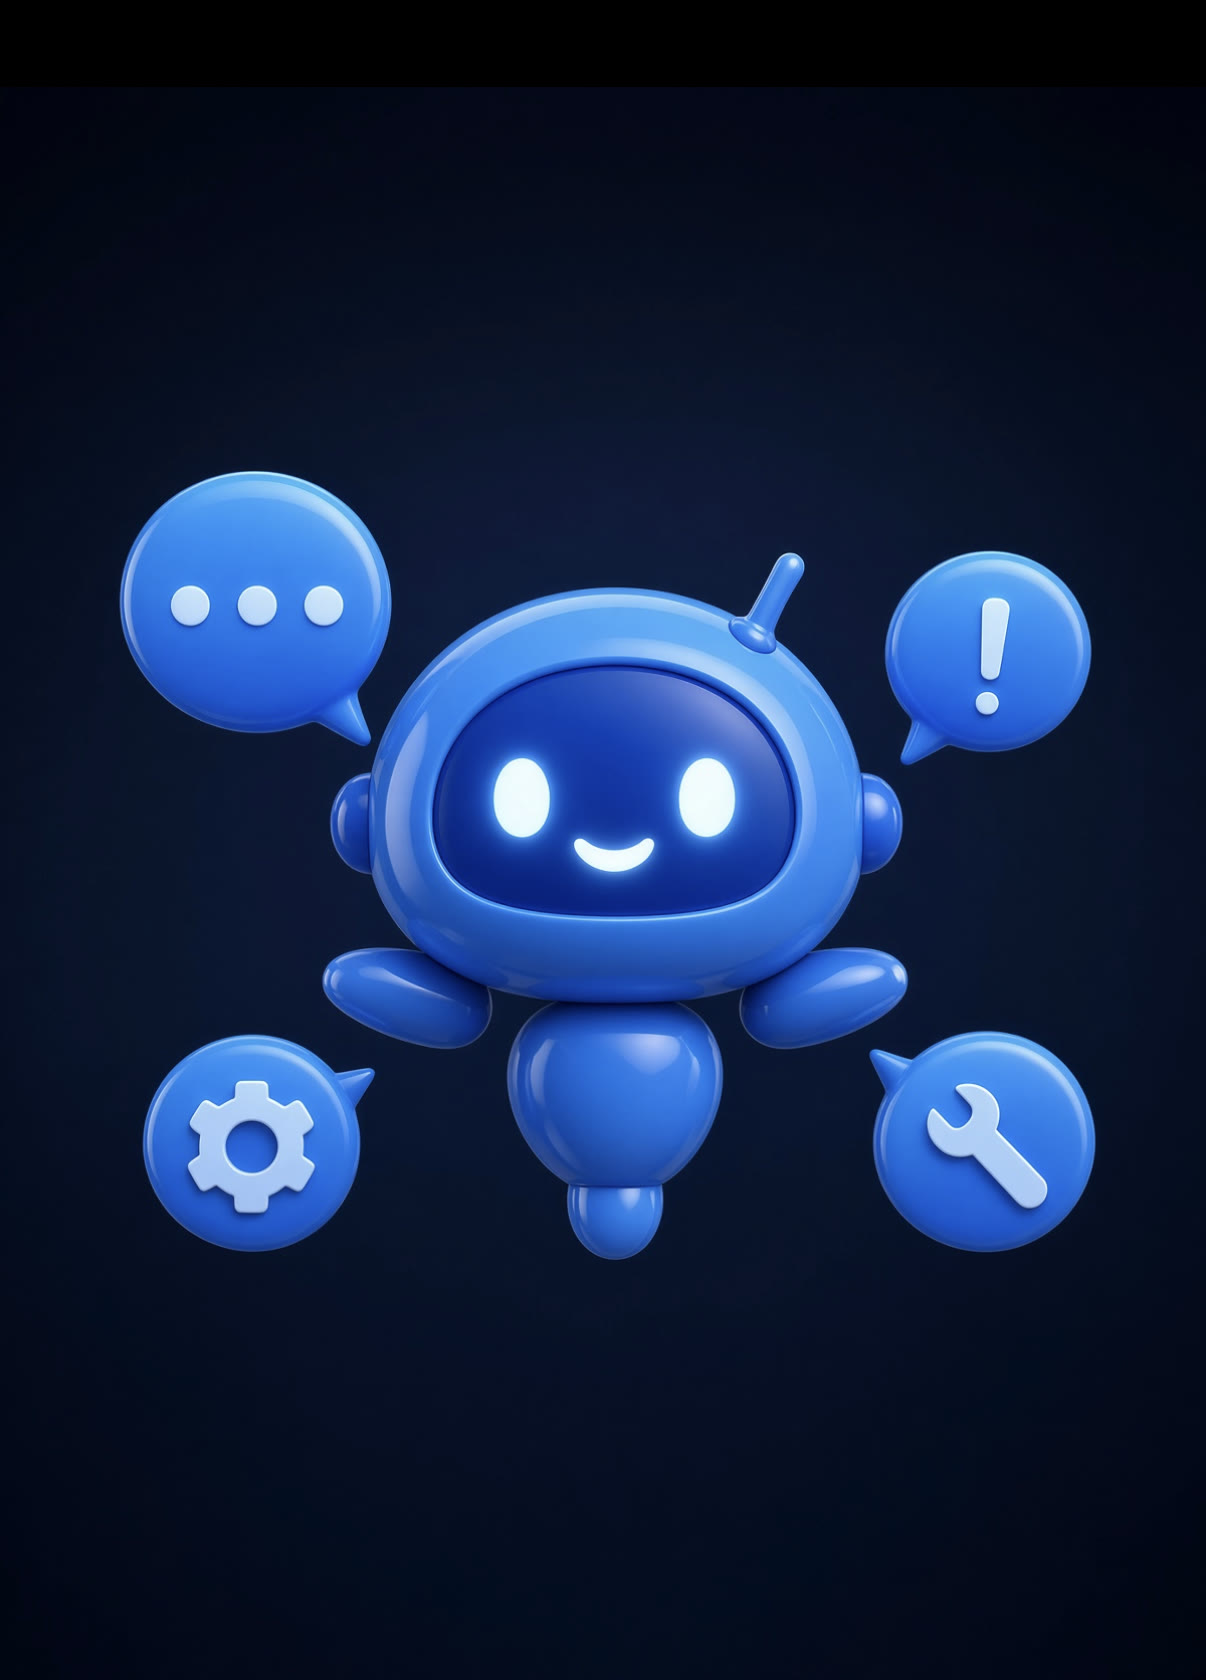
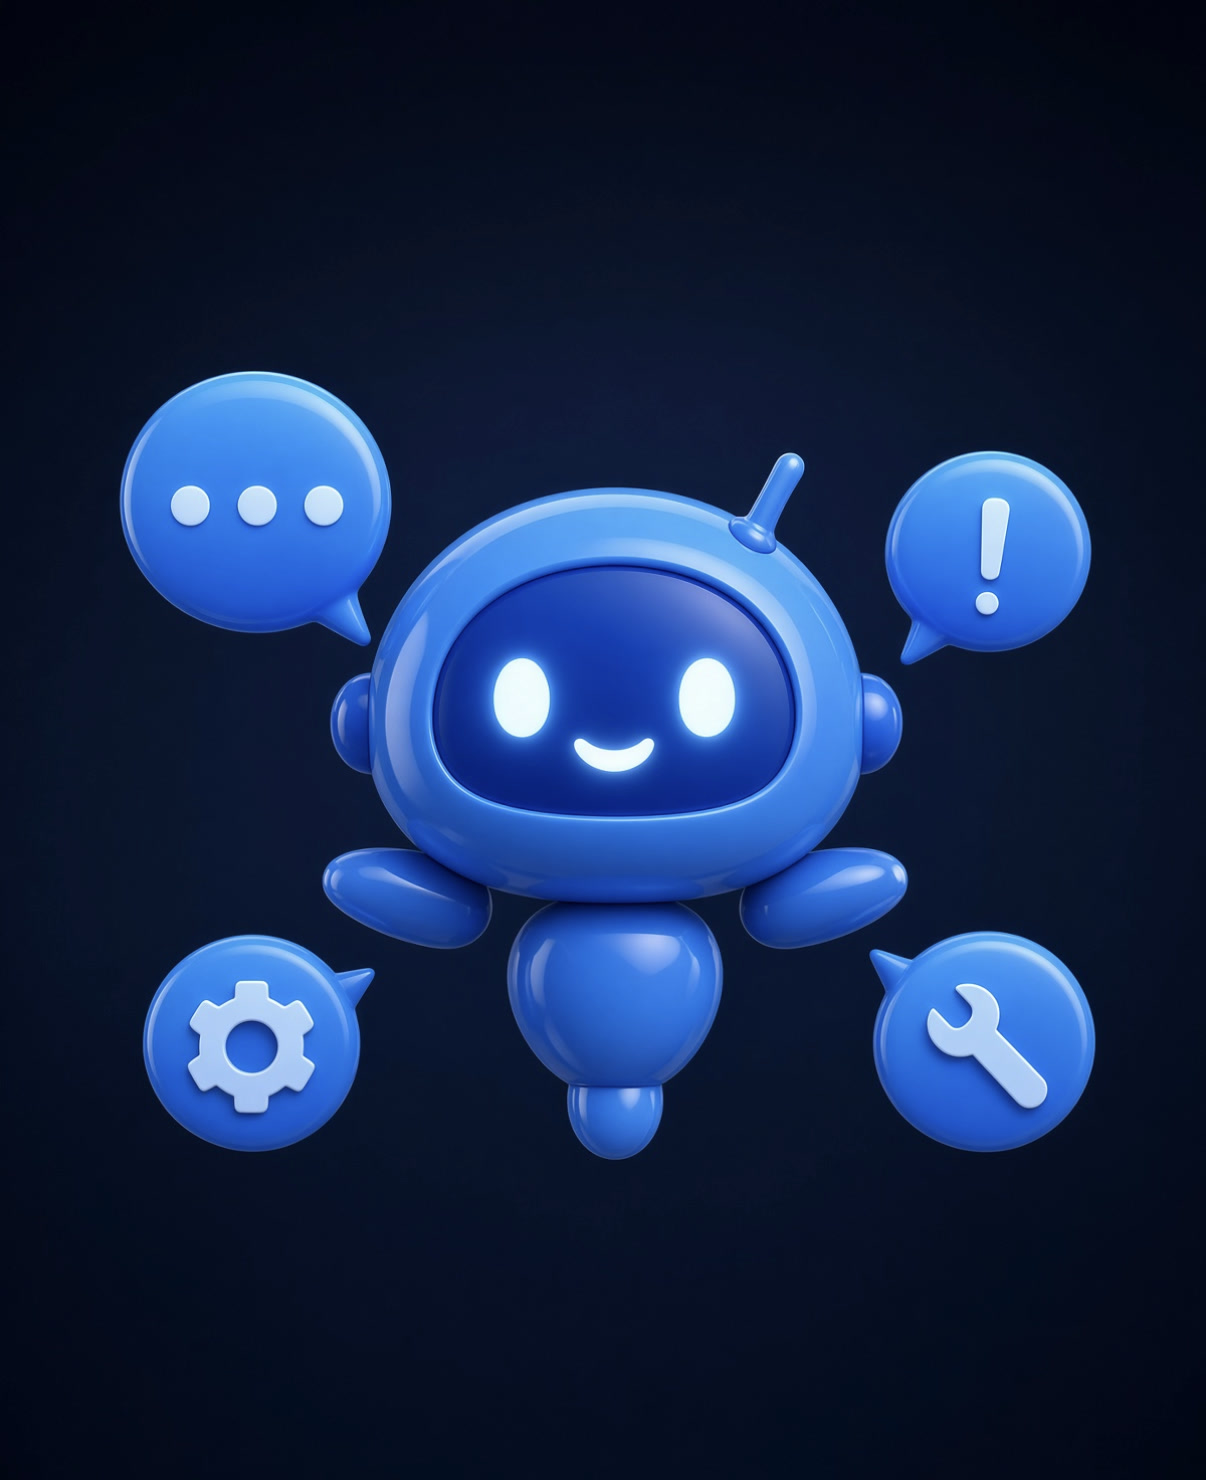
Enlarge the Nova stage robot and drop the boxed background
Match the avatar stage to Steven’s black reference so the glossy robot
reads as the interface, not a thumbnail sitting on a card.

diff --git a/src/components/landing/nova-stage.tsx b/src/components/landing/nova-stage.tsx
@@ -163,9 +163,9 @@ export function NovaStage() {
                 ))}
               </div>
 
-              <div className="relative mx-auto flex max-h-[min(46vh,22rem)] w-full max-w-[20rem] items-center justify-center sm:max-h-[min(52vh,26rem)] sm:max-w-[24rem] md:max-h-[min(58vh,28rem)]">
+              <div className="relative mx-auto flex h-[min(52vh,26rem)] w-[min(92vw,26rem)] items-center justify-center sm:h-[min(60vh,32rem)] sm:w-[min(80vw,32rem)] md:h-[min(66vh,36rem)] md:w-[36rem]">
                 <span
-                  className="pointer-events-none absolute inset-[12%] rounded-full bg-[#0d92ad]/25 blur-3xl"
+                  className="pointer-events-none absolute inset-[18%] rounded-full bg-[#0d92ad]/20 blur-3xl"
                   aria-hidden
                 />
                 <NovaFace

diff --git a/src/styles.css b/src/styles.css
@@ -276,8 +276,7 @@
 }
 
 .nova-stage-ground {
-  background:
-    radial-gradient(ellipse at 50% 42%, #12324a 0%, #050814 58%, #02040a 100%);
+  background: #000;
 }
 
 .nova-avatar-float {
